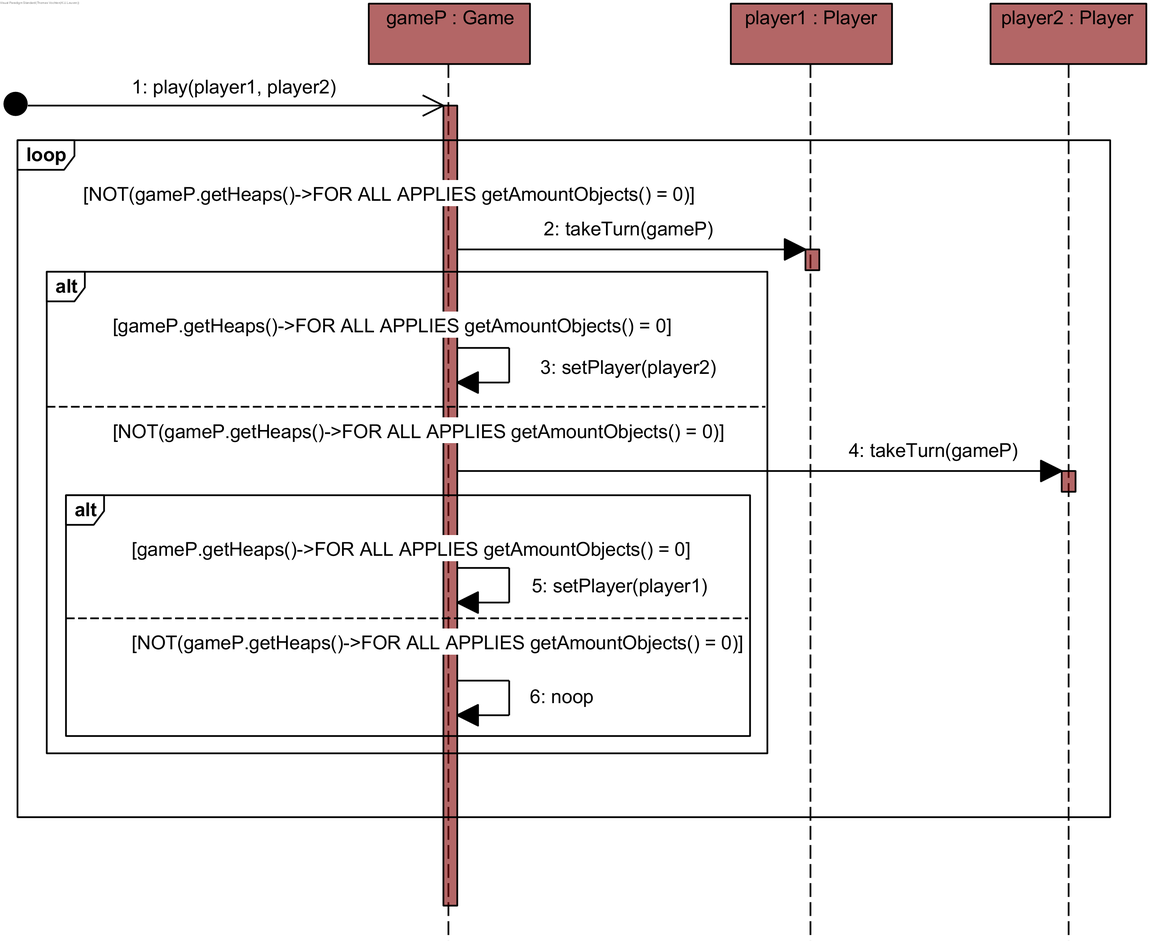
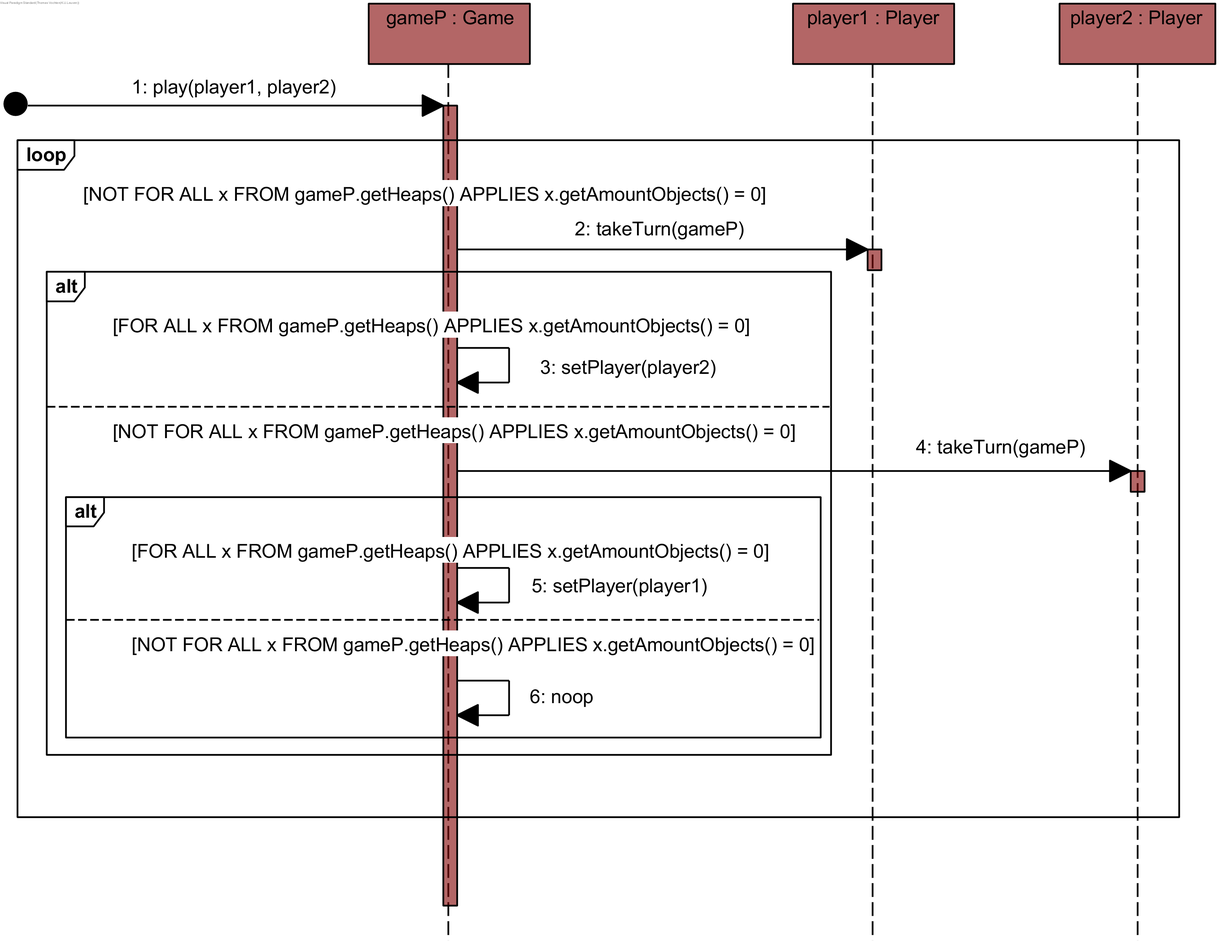
relocated some appendices to online locations

diff --git a/chap-declaratieve-seq/chap-declaratieve-seq.tex b/chap-declaratieve-seq/chap-declaratieve-seq.tex
@@ -11,8 +11,8 @@ Bij het opstellen van deze theorie werden de volgende stappen gevolgd:
 
 \begin{enumerate}
 	\item Bepaal de variabelen die de toestand van het systeem beschrijven. Zo krijgen we de logische types \textit{Heap}, die stapels voorstellen; \textit{Size}, wat het aantal objecten op een stapel voorstelt; en \textit{Player}, voorgesteld door exact twee getallen voor de twee spelers. We onderscheiden ook de functies \textit{NumObj(Time, Heap) : Size}, wat de grootte van een stapel op een bepaald tijdstip voorstelt; en \textit{PlayerTurn(Time) : Player}, die voor elk tijdstip aangeeft welke speler aan beurt is. Deze functies maken we inertieel.
-	\item Bepaal welke bewerkingen er kunnen gebeuren op het systeem op elk tijdstip die er mogelijks voor zorgen dat de toestand van het systeem verandert in toekomstige tijdstappen. Definieer de \textit{constructed type Action} die deze bewerkingen benoemt. Voor Nim is er maar \'e\'en actie mogelijk: het nemen van een aantal objecten van een bepaalde stapel. Daarom bestaat \textit{Action} uit domeinobjecten gegenereerd uit de specificatie \textit{Take(Heap, Size)}, dat voor alle mogelijke combinaties van \textit{Heap} en \textit{Size} een domeinobject genereert.
-	\item Leg geschikte voorwaarden op de uitvoering van de bewerkingen bepaald in de vorige stap. In Nim moeten we ervoor zorgen dat een speler objecten neemt van een stapel die niet leeg is en dat een speler minstens \'e\'en object wegneemt en niet meer objecten dan aanwezig op de stapel. Verder dwingen we af dat een speler een niet-lege stapel kiest.
+	\item Bepaal welke bewerkingen er kunnen gebeuren op het systeem op elk tijdstip die er mogelijks voor zorgen dat de toestand van het systeem verandert in toekomstige tijdstappen. Definieer de \textit{constructed type Action} die deze bewerkingen benoemt. Voor Nim is er maar \'e\'en actie mogelijk: het nemen van een aantal objecten van een bepaalde stapel. Daarom defini\"eren we het type \textit{Action} met behulp van de Herbrandfunctor \textit{Take(Heap, Size)}. Dit garandeert het uniekenaamaxioma en domeinsluitingsaxioma voor het type \textit{Action} in termen van logische objecten van het type \textit{Heap} en het type \textit{Size}.\cite{DeCatBroes2014PLaa} Met andere woorden: elk mogelijk tupel $(h, s)$ waar $h \in Heap$ en $s \in Size$ correspondeert met \'e\'en uniek logisch object $Take(h, s)$. Het domein van het type \textit{Action} bestaat uitsluitend uit deze objecten.
+	\item Leg geschikte voorwaarden op de uitvoering van de bewerkingen bepaald in de vorige stap. In Nim moeten we ervoor zorgen dat een speler objecten neemt van een niet-lege stapel en dat een speler minstens \'e\'en object wegneemt van de gekozen stapel. De speler mag niet meer objecten wegnemen dan aanwezig op de stapel.
 	\item Schrijf de causatiezinnen. Specificeer hoe een bewerking de toestand van het systeem verandert. We leiden af dat \textit{NumObj} verandert ten gevolge van een \textit{Take} actie. Verder zorgen we ervoor dat er elke tijdstap een beurtwissel gebeurt.
 	\item Schrijf de toestandzinnen. Deze hebben een vast patroon voor elk inertieel logisch symbool.
 \end{enumerate}
@@ -21,12 +21,16 @@ Het meest opmerkelijk verschil tussen deze logische specificatie en de specifica
 
 We merken op dat een belangrijk nadeel dat sequentiediagrammen hebben ten opzichte van rechtstreekse LTC is dat de toestand van maar \'e\'en variabele kan opgevraagd of aangepast worden. De LTC-theorie heeft bijvoorbeeld \'e\'en zin nodig om te verzekeren dat het spel voorbij is indien alle stapels leeg zijn. Er is echter een heel diagram nodig om voor elke stapel om de beurt te controleren of die leeg is.
 
-Verder kan de LTC-theorie ook meteen alle lege stapels uitsluiten wanneer de speler moet kiezen van welke stapel hij objecten neemt. In figuur \ref{fig:nim-takeTurn} moet eerst gecontroleerd worden of de stapel die de speler kiest effectief leeg is. De aanwezigheid van lussen die een berekening implementeren in plaats van dat ze iteratief proces in het probleemdomein voorstellen zorgt er dus voor dat modelexpansie voor de resulterende theorie minder performant is. Dit leidt namelijk tot logische symbolen die de variabelen betrokken bij de berekening voorstellen en zinnen in de theorie die overeenkomen met instructies op die variabelen. In de context van Nim is de beurtenwissel wanneer nog niet alle stapels leeg zijn een voorbeeld van een iteratief proces binnen het probleemdomein. In het ontwerp gepresenteerd in sectie \ref{sec:nim-design} zijn er echter meerdere lussen aanwezig die geen iteratief proces in het probleemdomein voorstellen:
+Verder kan de LTC-theorie ook meteen alle lege stapels uitsluiten wanneer de speler moet kiezen van welke stapel hij objecten neemt. In figuur \ref{fig:nim-takeTurn} moet eerst gecontroleerd worden of de stapel die de speler kiest effectief leeg is. Het keuzeproces herhaalt zich tot de gebruiker een niet-lege stapel kiest. Zulk een iteratief proces is niet aanwezig in de LTC-theorie. Beschouw ook het diagram \ref{fig:nim-allHeapsEmpty} dat \textit{allHeapsEmpty()} modelleert. Daar controleert de lus voor elke stapel om de beurt of hij leeg is. Deze iteratieve controle is niet aanwezig in de LTC-theorie.
 
-\begin{itemize}
-	\item De lus in diagram \ref{fig:nim-allHeapsEmpty} die voor elke stapel nagaat of hij leeg is.
-	\item De lus in diagram \ref{fig:nim-takeTurn} die de speler een stapel laat selecteren tot hij een niet-lege stapel kiest.
-\end{itemize}
+We stellen de volgende zaken vast:
+
+\begin{enumerate}
+	\item Indien een LTC-theorie een iteratief proces bevat, komt dit overeen met een iteratief proces in het beschouwde probleemdomein. In listing \ref{code:ltc-nim} is de beurtenwissel het enige iteratief proces. Dit is ook het enige iteratief proces dat bestaat in Nim.
+	\item De modellering van Nim in sectie \ref{sec:nim-design} bevat naast de beurtenwissel ook iteratieve processen die niet overeenkomen met een proces in Nim. Zulke processen zijn ook aanwezig in het ontwerp voor Reversi in sectie \ref{sec:reversi-design}. Een voorbeeld daarvan is het diagram voor \textit{count(Player)}, dat elk speelvak afgaat om te tellen hoeveel stenen een bepaalde speler op het bord heeft liggen. Dit komt niet overeen met een iteratief proces in Reversi. Modelleringen volgens onze voorstelling zullen dus zowel iteratieve processen die overeenkomen met een proces in het probleemdomein bevatten als iteratieve processen die een berekening uitvoeren die niet rechtstreeks relevant is voor het probleemdomein.
+\end{enumerate}
+
+De extra iteratieve processen in onze voorstelling leiden tot nieuwe logische symbolen die de variabelen betrokken in het proces voorstellen. De theorie zal ook zinnen bevatten die overeenkomen met bewerkingen op die variabelen. Zulke processen vergroten op deze manier de rekentijd en het geheugengebruik voor modelexpansie en progressie\"inferentie.
 
 Deze observaties leiden ertoe dat we nieuwe soorten instructies voor sequentiediagrammen beschikbaar willen stellen met het oog op deze doelen:
 
@@ -37,38 +41,44 @@ Deze observaties leiden ertoe dat we nieuwe soorten instructies voor sequentiedi
 
 Concreet willen we instructies die ons toelaten om de toestand van alle objecten in een verzameling op te vragen, te controleren of te wijzigen. Verder willen we ook instructies die bij simulatie toelaten om te kiezen uit bepaalde leden uit een verzameling op basis van een criterium op de toestand van de leden.
 
-\section{Nieuwe soorten instructies}
+\section{Nieuwe soorten instructies}\label{sec:new-instr}
 
 Voorheen kon een variabele maar \'e\'en object of waarde van een primitief type voorstellen. Nu laten we toe dat een variabele een verzameling kan voorstellen. In de theorie behouden we voor namen het patroon $<variabelenaam>T/3$.
 
-We laten op variabelen die een verzameling voorstellen enkele nieuwe instructies toe:
+\subsubsection{Nieuwe toegelaten instructies in sequentiediagrammen}
 
-\begin{itemize}
+We laten de volgende nieuwe instructies toe in sequentiediagrammen:
+
+\begin{enumerate}
 	\item Voor alle leden van een verzameling tegelijkertijd kan een associatie genavigeerd worden. Als op een verzameling S van objecten van klasse X \textit{getY()} wordt uitgevoerd waar Y de naam is van een klasse geassocieerd met X, dan is het resultaat een verzameling van objecten van klasse Y. Die verzameling bestaat uit alle objecten die in verband staan met minstens \'e\'en object uit S.
 	\item $getNumX()$ waar X de naam is van een klasse die in verband staat met de klasse van de verzameling. Het resultaat is de som van het aantal instanties van klasse X waarmee elk lid van de verzameling in verband staat.
-	\item $EXISTS\ ONE\ WHERE\ [query]$: Geeft \textbf{true} als en slechts als \textit{query} geldt voor minstens \'e\'en lid van de verzameling. \textit{query} betekent hier een instructie die bestaat uit getters van klassevariabelen verbonden met booleaanse connectieven (klassevariabelen kunnen hierbij rechtstreeks vergeleken worden met een getal of string, waar toepasselijk).
-	\item $EXISTS\ n\ TO\ m\ WHERE\ [query]$ waar $n \leq m$: Geeft \textbf{true} als en slechts als voor minstens $n$ en ten hoogste $m$ leden van de verzameling geldt dat \textit{query} waar is.
-	\item $FOR\ ALL\ APPLIES\ [query]$: Geeft \textbf{true} als en slechts als voor alle leden van de verzameling \textit{query} geldt.
+	\item $EXISTS\ ONE\ [x]\ FROM\ [y]\ WHERE\ [query]$: $y$ stelt een verzameling voor. $x$ wordt gebonden in $query$ en stelt een lid van $y$ voor. \textit{query} stelt een instructie voor die bestaat uit getters van klassevariabelen verbonden met booleaanse connectieven. Klassevariabelen kunnen hierbij rechtstreeks vergeleken worden met een getal of string, waar toepasselijk. Deze instructie geeft \textbf{true} als en slechts als minstens \'e\'en $x$ bestaat waarvoor \textit{query} geldt.\label{instr:exists-one}
+	\item $EXISTS\ n\ TO\ m\ [x]\ FROM\ [y]\  WHERE\ [query]$ waar $n \leq m$: Geeft \textbf{true} als en slechts als \textit{query} geldt voor minstens $n$ en ten hoogste $m$ verschillende waarden $x \in y$. Het domein voor $n$ en $m$ is $[1,+\infty]$.
+	\item $FOR\ ALL\ [x]\ FROM\ [y]\ APPLIES\ [query]$: Geeft \textbf{true} als en slechts als $query$ geldt voor alle $x \in y$.
 	\item $NOT\ [query]$: geeft \textbf{true} als en slechts als \textit{query} \textbf{false} geeft. \textit{query} kan hier \'e\'en van de voorgaande soorten instructies zijn.
-	\item $CHOOSE\ ALL\ WHERE\ APPLIES\ [query]$: Geeft een nieuwe verzameling die bestaat uit alle leden van de originele verzameling waarvoor \textit{query} waar is.
-	\item $CHOOSE\ ONE\ WHERE\ APPLIES\ [query]$: Geeft \'e\'en object uit de verzameling waarvoor \textit{query} waar is. Dit vormt een keuzepunt bij simulatie.
-	\item $CHOOSE\ n\ TO\ m\ WHERE\ APPLIES\ [query]$ waar $n \leq m$: Geeft een nieuwe verzameling die bestaat uit minstens $n$ en ten hoogste $m$ leden uit de originele verzameling waarvoor \textit{query} waar is. Dit vormt een keuzepunt bij simulatie.
-	\item $CHOOSE\ <getalnaam>\ WHERE\ APPLIES\ [query\ dat\ <getalnaam>\ bindt]$: Geeft een nieuwe variabele met als naam \textit{getalnaam} waarvoor geldt dat de waarde voldoet aan \textit{query}. Dit soort instructie kan ook toegepast worden op een variabele dat maar \'e\'en object voorstelt. Dit vormt een keuzepunt bij simulatie.
-	\item $SET <klassevariabele> TO <waarde>$: Voor alle leden van de verzameling wordt de waarde van de genoemde klassevariabele veranderd naar de genoemde waarde.
-\end{itemize}
+	\item $CHOOSE\ ALL\ [x]\ FROM\ [y]\ WHERE\ APPLIES\ [query]$: Geeft een nieuwe verzameling die bestaat uit alle $x \in y$ waarvoor \textit{query} waar is.
+	\item $CHOOSE\ ONE\ [x]\ FROM\ [y]\ WHERE\ APPLIES\ [query]$: Geeft \'e\'en $x \in y$ waarvoor \textit{query} waar is. Dit vormt een keuzepunt bij simulatie.\label{instr:choose-one}
+	\item $CHOOSE\ n\ TO\ m\ [x]\ FROM\ [y]\ WHERE\ APPLIES\ [query]$ waar $1 \leq n \leq m < +\infty$: Geeft een nieuwe verzameling die bestaat uit minstens $n$ en ten hoogste $m$ $x \in y$ waarvoor \textit{query} waar is. Dit vormt een keuzepunt bij simulatie.\label{instr:choose-n-to-m}
+	\item $SET <klassevariabele> IN\ [y]\ TO <waarde>$: Voor alle leden van de verzameling wordt de waarde van de genoemde klassevariabele veranderd naar de genoemde waarde.\label{instr:set}
+\end{enumerate}
+
+In instructies \ref{instr:exists-one} tot en met \ref{instr:set} kan $y$ een verzameling van alle waarden van een primitief type zijn, zoals ``Integer'', ``Float'' of ``String''.
 
 In een \textit{query} mogen er geen methodes voorkomen waarvan het gedrag gespecificeerd wordt in een sequentiediagram.
 
-Vergelijk de \textit{CHOOSE}-instructies met de $\pi$-operator van GOLOG\cite{levesque1997golog}. GOLOG is een logische programmeertaal gebaseerd op de situatiecalculus. Net zoals de lineaire tijdscalculus is de situatiecalculus een formalisme binnen de eerste-orde-predicatenlogica om dynamische systemen te modelleren. De basisblokken van de situatiecalculus zijn:
+\subsubsection{Vergelijking van de \textit{CHOOSE}-instructies met de $\pi$-operator in GOLOG}
+
+GOLOG\cite{levesque1997golog} is een logische programmeertaal gebaseerd op de situatiecalculus. Net zoals de lineaire tijdscalculus is de situatiecalculus een formalisme binnen de eerste-orde-predicatenlogica om dynamische systemen te modelleren. De basisblokken van de situatiecalculus zijn:
 
 \begin{itemize}
 	\item De acties die uitgevoerd kunnen worden in het systeem.
 	\item De \textit{fluents} die de toestand van het systeem beschrijven.
 	\item De situaties. Een situatie is een geschiedenis van uitgevoerde acties.
-	
 \end{itemize}
 
-De $pi$-operator is de non-deterministische keuzeoperator, gebruikt als $(\pi{}x)[\delta{}(x)]$, waar $\delta{}(x)$ \'e\'en of meerdere acties die de variabele $x$ gebruiken voorstelt. De $pi$-operator bepaalt non-deterministisch de waarde van het invoerargument voor de acties waar het op wordt toegepast. De \textit{CHOOSE}-instructies bepalen daarentegen non-deterministsch de waarde van een variabele.
+De $\pi$-operator is de non-deterministische keuzeoperator, gebruikt als $(\pi{}x)[\delta{}(x)]$, waar $\delta{}(x)$ \'e\'en of meerdere acties die de variabele $x$ binden voorstelt. De $\pi$-operator bepaalt non-deterministisch de waarde van het invoerargument voor de acties waar het op wordt toegepast. Als \textit{pickup(x)} bijvoorbeeld een actie voorstelt waarbij een robot een object opraapt, kiest $(\pi{}x)[pickup(x)]$ op non-deterministische wijze het object $x$ dat de robot opraapt. Instructies \ref{instr:choose-one} en \ref{instr:choose-n-to-m} zijn gelijkaardig. De gebruiker kiest uit alle $x \in y$ die voldoen aan een voorwaarde die $x$ bindt. De keuze van de gebruiker wordt dan toegekend aan een variabele. 
+
+\subsubsection{Modellering van Nim met de nieuwe instructies}
 
 We illustreren het gebruik van deze nieuwe instructies door middel van het voorbeeld van figuur \ref{fig:new-nim}, dat Nim volledig modelleert. De beurt gaat eerst naar de gekozen speler. Dan wordt gecontroleerd of alle stapels leeg zijn. Als dat niet het geval is, kiest de speler eerst een stapel en neemt dan minstens \'e\'en object weg van die stapel. Daarna wordt de beurt gegeven aan de volgende speler. Als alle stapels leeg zijn, is de huidige speler de winnaar.
 
@@ -114,9 +124,9 @@ Voor modelexpansie specificeren we in de invoerstructuur \'e\'en stapel met twee
 
 We simuleren weer een spelverloop waar de eerste speler alle drie objecten van de tweede stapel neemt, dan de tweede speler \'e\'en object van de eerste stapel, en dan de eerste speler het laatste object. In totaal is de simulatie 16 tijdstappen lang, met een totale simulatietijd van 93,11 seconden en een totaal geheugengebruik van 242,3 MB. Als we dit vergelijken met de resultaten in tabel \ref{tab:sim-mem}, zien we dat zowel de simulatietijd als het geheugengebruik significant kleiner zijn.
 
-\section{Variabele associaties}
+\section{Variabele associaties}\label{sec:var-assoc}
 
-Sectie \ref{sec:eval-design} beschouwde hoe het feit dat de invulling van een associatie niet kan veranderen over de tijd ontwerpen onintu\"itief maakt. Deze sectie onderzoekt de impact op de performantie in termen van rekentijd en geheugengebruik als dat nu wel toegelaten is.
+Sectie \ref{sec:eval-design} besprak hoe het feit dat de invulling van een associatie niet kan veranderen over de tijd tot onintu\"itieve ontwerpen leidt. We legden die beperking op om de rekentijd en het geheugengebruik bij modelexpansie en progressie\"inferentie beperkt te houden. Na de resultaten in sectie \ref{sec:dec-performance} onderzoeken we wat het effect is op de rekentijd en het geheugengebruik als we deze beperking opheffen nu de instructies uit sectie \ref{sec:new-instr} beschikbaar zijn.
 
 Associaties defini\"eren nu impliciet twee operaties. Voor een associatie \textit{X}---\textit{Y} wordt voor de klasse \textit{X} de operatie \textit{setY(Y)} en de operatie \textit{unset(Y)} gedefinieerd. \textit{setY(Y)} relateert het object van klasse \textit{X} tot het gegeven object van klasse \textit{Y}. \textit{unsetY(Y)} zorgt ervoor dat het object niet meer gerelateerd is aan het gegeven object.
 
@@ -145,7 +155,7 @@ Bijlage \ref{app:nim-assoc} bevat het IDP-bestand dat deze diagrammen modelleert
 		\label{fig:nim-assoc-play}
 	\end{subfigure}
 	\begin{subfigure}{\textwidth}
-		\includegraphics[width=\textwidth]{chap-declaratieve-seq/takeTurn.png}
+		\includegraphics[width=1.1\textwidth]{chap-declaratieve-seq/takeTurn.png}
 		\caption{Sequentiediagram voor \textit{takeTurn(Game)}}
 		\label{fig:nim-assoc-taketurn}
 	\end{subfigure}
@@ -155,7 +165,7 @@ Bijlage \ref{app:nim-assoc} bevat het IDP-bestand dat deze diagrammen modelleert
 
 We evalueren modelexpansie en progressie\"inferentie.
 
-In de invoerstructuur geven we twee stapels, \'e\'en van twee objecten en \'e\'en van drie objecten. We defini\"eren 21 tijdstappen, wat genoeg is om drie beurten te spelen. Modelexpansie vindt alle modellen na 15,58 seconden, met een \textit{grounding}-grootte van 424 682 en virtueel geheugengebruik van 592,55 GB.
+In de invoerstructuur geven we twee stapels, \'e\'en van twee objecten en \'e\'en van drie objecten. We defini\"eren 21 tijdstappen, wat genoeg is om drie beurten te spelen. Modelexpansie vindt alle modellen na 15,58 seconden, met een \textit{grounding}-grootte van 424 682 en virtueel geheugengebruik van 592,55 MB.
 
 Via progressie\"inferentie spelen we het spel in drie beurten. De simulatie is 22 stappen lang. De simulatie duurt drie minuten en gebruikt 462,02 MB aan virtueel geheugen.
 
@@ -193,6 +203,6 @@ Er zijn meerdere mogelijke aanpakken om zulke functionaliteit te modelleren in L
 
 We vergeleken een rechtstreekse implementatie van Nim in LTC met de theorie gegenereerd uit het ontwerp in sectie \ref{sec:nim-design}. We merkten dat de LTC-theorie significant compacter was. Dit komt onder meer omdat sequentiediagrammen toelaten dat de toestand van maar \'e\'en variabele tegelijk wordt gecontroleerd. Verder heeft LTC enkel lussen in de vorm van iteratieve processen binnen het probleemdomein, waar sequentiediagrammen ook lussen moeten bevatten voor procedurale berekeningen. Deze observaties dienden als basis voor het ontwerpen van nieuwe soorten instructies voor sequentiediagrammen. De instructies integreren logica in de ontwerptaal voor sequentiediagrammen.
 
-We maakten een nieuw ontwerp voor Nim waar we gebruikmaakten van deze instructies. Modelexpansie en progressie\"inferentie waren significant performanter voor de resulterende theorie. Deze winst blijft grotendeels bewaard wanneer we ook toelaten dat de invulling van een associatie verandert over de tijd.
+We maakten een nieuw ontwerp voor Nim waar we gebruikmaakten van deze instructies. Dit ontwerp vertaalden we naar een logische theorie. Modelexpansie en progressie\"inferentie waren significant performanter voor deze theorie vergeleken met de theorie uit sectie \ref{sec:nim-design}. Deze winst blijft grotendeels bewaard wanneer we ook toelaten dat de invulling van een associatie verandert over de tijd.
 
 We gaven tenslotte een aanzet voor toekomstig onderzoek naar mogelijkheden om een methode op te roepen op meerdere objecten tegelijkertijd.

diff --git a/idp-sources/app-idp-sources.tex b/idp-sources/app-idp-sources.tex
@@ -1,20 +1,29 @@
-\chapter{IDP-bestand resulterend uit de procedure beschreven in hoofdstuk \ref{sec:consistentie}}\label{app:consistentie}
+\chapter{Lijst van bestanden beschikbaar op online locaties}
+
+\begin{enumerate}
+	\item \onlineitem{Theorie gegeneerd uit diagram \ref{fig:seq-diagram-game} volgens de regels in secties \ref{sec:sd-voc} tot en met \ref{sec:combined-fragment}}{https://pastebin.com/WGQjr2bv}
+	\item \onlineitem{Theorie gegenereerd uit het ontwerp voor Nim in sectie \ref{sec:nim-design}}{https://pastebin.com/f90riJGV}
+	\item \onlineitem{Diagrammen voor het ontwerp voor Reversi in sectie \ref{sec:reversi-design}}{https://imgur.com/a/kgVg4dv}
+	\item \onlineitem{Theorie gegeneerd uit het ontwerp voor Reversi in sectie \ref{sec:reversi-design}}{https://pastebin.com/B1zKWyTq}
+\end{enumerate}
+
+\chapter{IDP-bestand resulterend uit de procedure beschreven in sectie \ref{sec:cd-rep-cons} voor diagram \ref{fig:diagram-voorbeeld}}\label{app:consistentie}
 
 \lstinputlisting[caption=Theorie voor het diagram in figuur \ref{fig:diagram-voorbeeld}]{chap-rol-idp/generatedtheory.idp}\label{code:consistentie}
 
-\chapter{IDP-bestand resulterend uit de procedure beschreven in hoofdstuk \ref{sec:kwaliteitsgebrek}}\label{app:kwaliteitsgebrek}
+\chapter{IDP-bestand resulterend uit de procedure beschreven in sectie \ref{sec:kwaliteitsgebrek} voor diagrammen \ref{fig:diagram-voorbeeld} en \ref{fig:cycle}}\label{app:kwaliteitsgebrek}
 
 \lstinputlisting[caption=Theorie voor het opsporen van kwaliteitsgebreken]{chap-rol-idp/defs.idp}\label{code:kwaliteitsgebrek}
 
-\chapter{IDP-bestand voor sequentiediagram van het spelvoorbeeld}\label{app:seq-diagram-game}
+%\chapter{IDP-bestand voor sequentiediagram van het spelvoorbeeld}\label{app:seq-diagram-game}
+%
+%\lstinputlisting[caption=Modellering van het gedrag van het sequentiediagram in figuur \ref{fig:seq-diagram-game}]{idp-sources/seq-diagram-game.idp}\label{code:seq-diagram-game}
 
-\lstinputlisting[caption=Modellering van het gedrag van het sequentiediagram in figuur \ref{fig:seq-diagram-game}]{idp-sources/seq-diagram-game.idp}\label{code:seq-diagram-game}
-
-\chapter{IDP-bestand voor sequentiediagram voor het voorbeeld over recursie}\label{app:seq-recursion}
+\chapter{IDP-bestand voor diagrammen \ref{fig:recursion-class}, \ref{fig:methodOne} en \ref{fig:methodtwo} in sectie \ref{sec:interaction}}\label{app:seq-recursion}
 
 \lstinputlisting[caption=Modellering van het gedrag van de sequentiediagrammen in figuren \ref{fig:methodOne} en \ref{fig:methodtwo}]{idp-sources/recursion.idp}\label{code:seq-recursion}
 
-\chapter{Diagrammen voor het ontwerp van Nim}\label{app:design-nim}
+\chapter{Diagrammen voor het ontwerp van Nim in sectie \ref{sec:nim-design}}\label{app:design-nim}
 
 %\afterpage{
 %	\begin{landscape}
@@ -73,13 +82,13 @@
 	\label{fig:nim-take}
 \end{figure}
 
-\chapter{IDP-bestand voor het ontwerp van Nim}\label{app:nim-eval}
+%\chapter{IDP-bestand voor het ontwerp van Nim}\label{app:nim-eval}
+%
+%\lstinputlisting[caption=Modellering van Nim voor hoofdstuk \ref{sec:evaluatie}]{chap-evaluatie/nimmodel.idp}\label{code:nim-eval}
 
-\lstinputlisting[caption=Modellering van Nim voor hoofdstuk \ref{sec:evaluatie}]{chap-evaluatie/nimmodel.idp}\label{code:nim-eval}
-
-\chapter{IDP-bestand voor het ontwerp van Reversi}\label{app:reversi-eval}
-
-\lstinputlisting[caption=Modellering van Reversi voor hoofdstuk \ref{sec:evaluatie}]{chap-evaluatie/reversimodel.idp}\label{code:reversi-eval}
+%\chapter{IDP-bestand voor het ontwerp van Reversi}\label{app:reversi-eval}
+%
+%\lstinputlisting[caption=Modellering van Reversi voor hoofdstuk \ref{sec:evaluatie}]{chap-evaluatie/reversimodel.idp}\label{code:reversi-eval}
 
 %\chapter{Diagrammen voor het ontwerp van Reversi}
 %
@@ -115,11 +124,11 @@
 %	\end{figure}
 %\end{landscape}
 
-\chapter{IDP-bestand voor sequentiediagram voor het voorbeeld over extra instructies}\label{app:new-nim}
+\chapter{IDP-bestand voor diagram \ref{fig:new-nim} in sectie \ref{sec:new-instr}}\label{app:new-nim}
 
 \lstinputlisting[caption=Modellering van Nim gebruikmakend van nieuwe soorten instructies]{idp-sources/new-lang.idp}\label{code:new-nim}
 
-\chapter{IDP-bestand voor het ontwerp van Nim met variabele associaties}\label{app:nim-assoc}
+\chapter{IDP-bestand voor diagrammen \ref{fig:nim-assoc-cd}, \ref{fig:nim-assoc-play} en \ref{fig:nim-assoc-taketurn} in sectie \ref{sec:var-assoc}}\label{app:nim-assoc}
 
 \lstinputlisting[caption=Modellering van Nim met variabele associaties]{chap-declaratieve-seq/nim-assoc.idp}\label{code:nim-assoc}
 

diff --git a/main.tex b/main.tex
@@ -1,3 +1,18 @@
+\RequirePackage{filecontents}
+\begin{filecontents*}{\jobname-url.mst}
+	% Input style specifiers
+	keyword "\\urlentry"
+	% Output style specifiers
+	preamble "\\begin{theurls}"
+	postamble "\n\\end{theurls}\n"
+	group_skip ""
+	headings_flag 0  
+	item_0 "\n\\urlitem{"
+		delim_0 "}{"
+		delim_t "}"
+	line_max 500
+\end{filecontents*}
+
 \documentclass[master=cws,masteroption=gs,dutch]{kulemt}
 \setup{title={Vertaling van UML-klassediagrammen en sequentiediagrammen naar FO($\cdot$)-theorie\"en voor simulatie en verificatie},
 	author={Thomas Vochten},
@@ -34,6 +49,69 @@
 \usepackage{rotating}
 \usepackage{afterpage}
 \usepackage{amsthm}
+\usepackage{pdfescape}
+\usepackage{xstring}
+
+% ----------- LIST OF URLS -------------
+
+\makeatletter
+\newwrite\file@url
+\openout\file@url=\jobname-url.idx\relax
+
+\newcommand*{\write@url}[1]{%
+	\begingroup
+	\EdefEscapeHex\@tmp{#1}%
+	\protected@write\file@url{}{%
+		\protect\urlentry{\@tmp}{\thepage}%
+	}%
+	\endgroup
+}
+\let\saved@hyper@linkurl\hyper@linkurl
+\renewcommand*{\hyper@linkurl}[2]{%
+	\write@url{#2}%
+	\saved@hyper@linkurl{#1}{#2}%
+}
+\newcommand*{\listurlname}{Lijst van gebruikte online locaties}
+\newcommand*{\printurls}{%
+	\InputIfFileExists{\jobname-url.ind}{}{}%
+}
+\newenvironment{theurls}{%
+	\section*{\listurlname}%
+	\@mkboth{\listurlname}{\listurlname}%
+	\let\write@url\@gobble  
+	\ttfamily
+	\raggedright
+	\setlength{\parfillskip}{0pt}%
+}{%
+	\par
+}
+\newcommand*{\urlitem}[2]{%
+	\hangindent=1em
+	\hangafter=1   
+	\begingroup    
+	\EdefUnescapeHex\@tmp{#1}%
+	\expandafter\url\expandafter{\@tmp}%
+	\endgroup
+	\urlindex@pfill
+	\IfSubStr{#2}{,}{pp}{%
+		\IfSubStr{#2}{-}{pp}{p}%
+	}.\@\space\ignorespaces
+	#2%
+	\par
+}
+\newcommand*{\urlindex@pfill}{% from \pfill of package `doc'
+	\unskip~\urlindex@dotfill
+	\penalty500\strut\nobreak
+	\urlindex@dotfil~\ignorespaces
+}
+\newcommand*{\urlindex@dotfill}{% from \dotfill of package `doc'
+	\leaders\hbox to.6em{\hss .\hss}\hskip\z@ plus  1fill\relax
+}
+\newcommand*{\urlindex@dotfil}{% from \dotfil of package `doc'
+	\leaders\hbox to.6em{\hss .\hss}\hfil
+}
+\makeatother
+
 
 \lstset{
 	basicstyle=\scriptsize\ttfamily,
@@ -73,6 +151,9 @@
 \newcommand{\fragmessage}[1]{\textit{#1}}
 \newcommand{\fragcond}[1]{#1?}
 \newcommand{\fragcondt}[1]{``#1?''}
+
+%list of online resources
+\newcommand{\onlineitem}[2]{#1: \\ \url{#2}}
 
 %\DeclareDocumentCommand{\transitionentry}{o m m}{
 %	\IfNoValueTF{#1}{
@@ -121,10 +202,11 @@
 	\appendixpage*
 	\appendix
 	\include{idp-sources/app-idp-sources}
-	
-	\backmatter
+	\printurls
 	
 	\bibliography{citations}{}
 	\bibliographystyle{plain}
+	
+	\backmatter
 	
 \end{document}

diff --git a/chap-evaluatie/chap-evaluatie.tex b/chap-evaluatie/chap-evaluatie.tex
@@ -52,7 +52,7 @@ Diagram \ref{fig:nim-takeTurn} vraagt aan de speler van welke stapel hij objecte
 
 Diagram \ref{fig:nim-take} berekent hoeveel objecten er nog overblijven op een stapel gegeven een aantal objecten om weg te nemen van de stapel. Als het verschil kleiner is dan nul, wordt de teller op nul gezet.
 
-Bijlage \ref{app:nim-eval} bevat het IDP-bestand met de automatisch gegenereerde uitvoertheorie voor deze diagrammen.
+Het IDP-bestand met de automatisch gegenereerde uitvoertheorie voor deze diagrammen is beschikbaar op de volgende online locatie: \url{https://pastebin.com/f90riJGV}.
 
 %\begin{landscape}
 %	\newpage
@@ -70,7 +70,7 @@ Bijlage \ref{app:nim-eval} bevat het IDP-bestand met de automatisch gegenereerde
 %	\end{figure}
 %\end{landscape}
 
-\subsection{Ontwerp voor Reversi}
+\subsection{Ontwerp voor Reversi}\label{sec:reversi-design}
 
 Reversi is een spel voor twee spelers. Ze spelen op een rechthoekig bord verdeeld in even grote vakken. Er liggen al in het begin stenen op het bord. De spelers leggen om de beurt een steen van hun kleur op het bord. Een steen mag enkel gelegd worden indien minstens \'e\'en steen van de tegenspeler ligt tussen de nieuwe steen en een steen van de eigen kleur die al op het bord ligt. Noem alle zulke stenen van de tegenspeler de gepakte stenen. Na het neerleggen van de nieuwe steen draait de speler de gepakte stenen om naar zijn kleur. Als geen enkele zet leidt tot minstens \'e\'en gepakte steen, slaat de speler zijn beurt over. Als de beurt twee keer na elkaar wordt overgeslagen, stopt het spel. De speler met het grootste aantal stenen van zijn kleur wint.
 
@@ -107,7 +107,7 @@ De sequentiediagrammen zijn beschikbaar op deze locatie: \url{https://imgur.com/
 
 \textit{count(boolean)} telt voor de gegeven speler hoeveel stenen er liggen van zijn kleur. Hierbij worden alle x- en y-co\"ordinaten bekeken.
 
-Bijlage \ref{app:reversi-eval} bevat het IDP-bestand met de automatisch gegenereerde uitvoertheorie voor deze diagrammen.
+Het IDP-bestand met de automatisch gegenereerde uitvoertheorie voor deze diagrammen is beschikbaar op de volgende online locatie: \url{https://pastebin.com/B1zKWyTq}.
 
 \subsection{Evaluatie van het ontwerpproces}
 

diff --git a/chap-consistentie/chap-consistentie.tex b/chap-consistentie/chap-consistentie.tex
@@ -382,7 +382,11 @@ Sectie \ref{sec:semantics-gen} stelt dat een klassehi\"erarchie een attribuut me
 
 \section{Het verifi\"eren van consistentie en inconsistentie}
 
-Consistentie van een klassediagram kan aangetoond worden door, gegeven een theorie afgeleid volgens de regels beschreven in sectie \ref{sec:cd-rep-cons}, niet-lege structuren te geven als invoer voor modelexpansie. Indien een structuur uitgebreid kan worden tot een model, is consistentie bewezen. Bijlage \ref{app:consistentie} bevat de theorie horend bij het diagram in figuur \ref{fig:diagram-voorbeeld} gegenereerd volgens de regels beschreven in dit hoofdstuk. Als we een structuur die \'e\'en directe instantie toekent aan elke klasse opgeven voor de theorie gegenereerd voor het klassediagram in figuur \ref{fig:diagram-voorbeeld}, breidt IDP ze uit tot een model voor de theorie. De conclusie is dus dat het diagram in figuur \ref{fig:diagram-voorbeeld} consistent is.
+Consistentie van een klassediagram kan aangetoond worden door, gegeven een theorie afgeleid volgens de regels beschreven in sectie \ref{sec:cd-rep-cons}, niet-lege structuren te geven als invoer voor modelexpansie. Indien een structuur uitgebreid kan worden tot een model, is consistentie bewezen.
+
+Bijlage \ref{app:consistentie} bevat het resultaat van de vertaling volgens de regels in sectie \ref{sec:cd-rep-cons} voor diagram \ref{fig:diagram-voorbeeld}.
+
+Als we een structuur die \'e\'en directe instantie toekent aan elke klasse opgeven voor deze theorie, breidt IDP ze uit tot een model voor de theorie. De conclusie is dus dat het diagram in figuur \ref{fig:diagram-voorbeeld} consistent is.
 
 Analoog kan men de consistentie van een klasse controleren door invoerstructuren op te geven die mintens \'e\'en instantie toekennen aan de klasse.
 

diff --git a/chap-gedrag/chap-gedrag.tex b/chap-gedrag/chap-gedrag.tex
@@ -193,8 +193,7 @@ Voor de andere variabelen wordt er een causatiezin toegevoegd voor elke instruct
 
 De zin drukt uit dat de getter wordt opgeroepen op \textit{target} en dat er wordt gevraagd naar een instantie van \textit{Statistic} dat in verband staat met \textit{target} en als naam ``defence'' heeft. Die instantie wordt dan als waarde toegekend aan de variabele \textit{defence}.
 
-Zie bijlage \ref{app:seq-diagram-game} voor het volledig model voor het gedrag van het sequentiediagram in figuur \ref{fig:seq-diagram-game}.
-
+De volledige uitvoertheorie voor diagram \ref{fig:seq-diagram-game} is beschikbaar op de volgende online locatie: \url{https://pastebin.com/WGQjr2bv}.
 
 \section{Het uitvoeren van gecombineerde fragmenten}\label{sec:combined-fragment}
 Het opstellen van causatiezinnen voor \textit{SDPointAt/2} ten gevolge van gecombineerde fragmenten is niet vanzelfsprekend. Deze sectie beschrijft onze methode om dit te bewerkstelligen.
